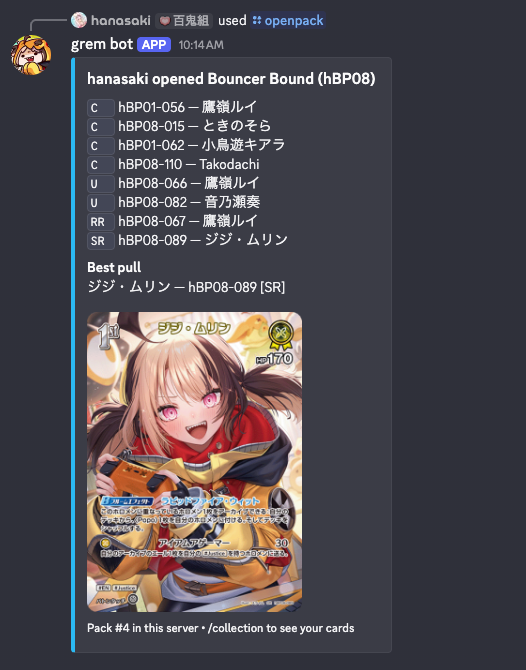
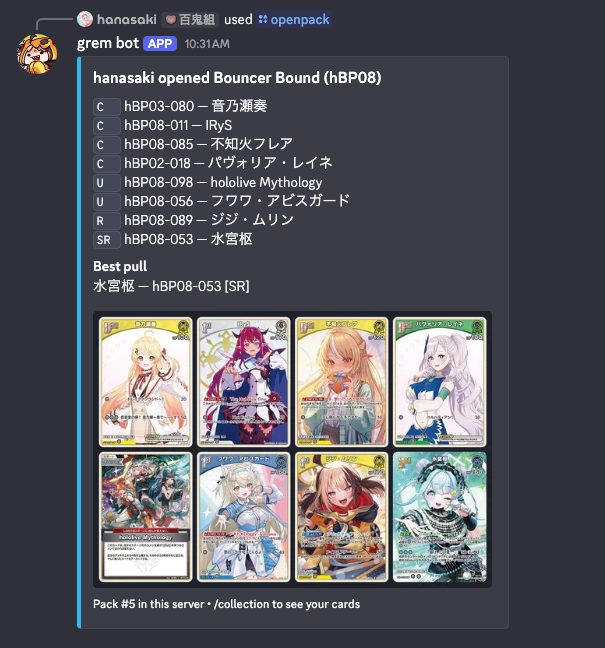
Add binders and leaderboards to the grembot page
Show the updated pack opening with artwork for every card, and drop the next-up line.

diff --git a/public/projects.js b/public/projects.js
@@ -99,11 +99,13 @@ function grembotScreenshots(files) {
     ['card-mention', 'mention a card in double brackets and grembot replies with it.', 'A Discord message asking about [[shiori ur]] and the Grembot reply showing the Shiori Novella UR card with prices.', 797, 878],
     ['daily-card', 'the card of the day, with the same details as any other lookup.', 'Grembot card of the day for 2026-10-22 showing Koseki Bijou with Japanese rules, artwork, and USD prices.', 737, 786],
     ['open-pack-query', 'start typing to pick any japanese booster or extra booster set.', 'Discord /openpack command with a list of booster sets from Blooming Radiance (hBP01) to Summer Hologram (hEB01).', 806, 513],
-    ['open-pack', 'every card in the pack, with the best pull shown up front.', 'Grembot pack opening for Bouncer Bound (hBP08) listing eight cards by rarity, with the Gigi Murin SR shown as the best pull.', 526, 670],
-    ['collection', 'packs opened, set completion, and the rarest cards pulled.', 'Grembot collection summary showing packs opened, cards pulled, set completion, and the rarest cards.', 534, 462]
+    ['open-pack', 'every card in the pack, with artwork for all eight and the best pull called out.', 'Grembot pack opening for Bouncer Bound (hBP08) listing eight cards by rarity with a grid of their artwork, and the Mizumiya Su SR shown as the best pull.', 605, 648],
+    ['collection', 'packs opened, set completion, and the rarest cards pulled.', 'Grembot collection summary showing packs opened, cards pulled, set completion, and the rarest cards.', 534, 462],
+    ['binder', 'flip through a set 20 cards at a time, with collected cards checked off.', 'Grembot binder for Bouncer Bound (hBP08) showing 16 of 182 cards collected, a checklist of cards, and page and filter buttons.', 573, 631],
+    ['leaderboard', 'see who leads the server.', 'Grembot leaderboard showing the most unique cards in the server, with hanasaki first at 40 unique cards.', 400, 162]
   ].filter(([file]) => files.includes(file)).forEach(([file, caption, alt, width, height]) => {
     const figure = document.createElement('figure');
-    figure.className = file === 'open-pack-query' ? 'grem-menu' : file.endsWith('query') ? 'grem-query' : 'grem-response';
+    figure.className = ['open-pack-query', 'open-pack', 'binder'].includes(file) ? 'grem-wide' : file.endsWith('query') ? 'grem-query' : 'grem-response';
     const link = document.createElement('a');
     link.href = `/assets/grembot/${file}.png`;
     link.target = '_blank';
@@ -132,8 +134,10 @@ function grembotDetails() {
     ['pull a random card', ['Use /randomcard to pull a random card, with optional rarity and color filters.', 'See the Japanese version when one exists, otherwise the English one, with the same artwork dropdown as /card.'], ['random-card-query']],
     ['look up cards mid-conversation', ['Write a card in double brackets, like [[ayame sec]], in any message and grembot replies with it.', 'Look up to three cards in a single message.'], ['card-mention']],
     ['card of the day', ['Use /dailycard to see the day’s card. Everyone gets the same card for a given UTC date.', 'Optionally post it automatically to a chosen channel at a set hour.', 'Before posting, grembot checks the channel’s recent messages, so a restart never posts the same day twice.'], ['daily-card']],
-    ['open booster packs', ['Use /openpack to open an 8-card booster pack and save the cards to your collection.', 'Pick a set by its English or Japanese name. Packs come from the Japanese catalogue, so every Japanese booster and extra booster is available, including sets not yet released in English.', 'Members with Manage Server can use /packcooldown to set how long people wait between packs. It is off by default.'], ['open-pack-query', 'open-pack']],
-    ['track your collection', ['Use /collection to see packs opened, unique cards, completion for each set, and the rarest cards pulled, for yourself or another member.'], ['collection']]
+    ['open booster packs', ['Use /openpack to open an 8-card booster pack, see artwork for every card pulled, and save them to your collection.', 'Pick a set by its English or Japanese name. Packs come from the Japanese catalogue, so every Japanese booster and extra booster is available, including sets not yet released in English.', 'Members with Manage Server can use /packcooldown to set how long people wait between packs. It is off by default.'], ['open-pack-query', 'open-pack']],
+    ['track your collection', ['Use /collection to see packs opened, unique cards, completion for each set, and the rarest cards pulled, for yourself or another member.'], ['collection']],
+    ['flip through a binder', ['Use /binder to page through every card in a set, 20 at a time, with collected cards and copy counts marked.', 'Switch pages and toggle between all, owned, and missing cards using buttons.', 'Leave out the set to open the one with the most cards collected, or choose another member to browse theirs.'], ['binder']],
+    ['server leaderboards', ['Use /leaderboard to rank the server by unique cards, packs opened, or UR, OUR, and SEC pulls.', 'See your own rank even when you are outside the top ten.'], ['leaderboard']]
   ];
   const sources = paragraph('The official Japanese catalogue is the preferred source for card details. The official English catalogue resolves English names, while the ');
   const apiLink = document.createElement('a');
@@ -146,8 +150,7 @@ function grembotDetails() {
     paragraph('As a gamer who spends plenty of time on Discord, I wanted a bot for my own servers that could help my friends and me find useful information without leaving the chat.'),
     subheading('card lookups, right in discord'),
     caseStudyFeatures(sections, grembotScreenshots),
-    sources,
-    paragraph('Next up: more server administration tools.')
+    sources
   ];
 }
 

diff --git a/public/styles.css b/public/styles.css
@@ -10,7 +10,7 @@ dialog[open]{animation:dialog-in .22s cubic-bezier(.22,.8,.28,1)}dialog[open]::b
 dialog h3{font-size:15px;font-weight:500;margin:28px 0 14px}
 
 .project-gallery{display:grid;grid-template-columns:repeat(2,minmax(0,1fr));gap:24px 18px;margin:28px 0}.project-gallery figure{margin:0;min-width:0}.project-gallery figure:first-child{grid-column:1/-1}.project-gallery a{display:block}.project-gallery img{display:block;width:100%;height:auto;max-height:none;border-radius:6px}.project-gallery figcaption{font-size:12px;line-height:1.6;color:var(--muted);margin-top:10px}@media(max-width:600px){.project-gallery{grid-template-columns:1fr}}
-dialog:has(.case-study-features){width:min(920px,calc(100% - 32px))}.case-study-features{list-style:none;padding:0;margin:0 0 30px}.case-study-feature{display:grid;grid-template-columns:34px minmax(0,1fr);column-gap:14px;padding:24px 0;border-top:1px solid var(--line)}.case-study-feature:last-child{border-bottom:1px solid var(--line)}.case-study-feature-number{grid-column:1;grid-row:1/3;font-size:10px;letter-spacing:1px;color:var(--muted);padding-top:4px}.case-study-feature h3{grid-column:2;margin:0;font-size:16px;font-weight:550;color:var(--ink)}.case-study-feature-copy,.case-study-points{grid-column:2;margin:7px 0 0}.case-study-points{padding-left:17px;color:var(--muted);font-size:14px;line-height:1.8}.case-study-points li+li{margin-top:7px}.case-study-feature>.project-gallery{grid-column:2}.holowish-gallery{grid-template-columns:repeat(auto-fit,minmax(120px,180px));gap:16px;margin:18px 0 2px}.holowish-gallery figure:first-child{grid-column:auto}.holowish-gallery img{width:100%;height:300px;max-height:none;object-fit:contain;margin:0 auto;background:#e8e8ee}.holowish-gallery figcaption{font-size:10px;letter-spacing:.3px;margin-top:7px}.grembot-gallery{grid-template-columns:minmax(0,1fr);margin:18px 0 2px}.grembot-gallery figure:first-child{grid-column:auto}.grembot-gallery .grem-response{width:min(100%,360px)}.grembot-gallery .grem-menu{width:min(100%,520px)}@media(max-width:600px){.case-study-feature{grid-template-columns:24px minmax(0,1fr);column-gap:10px;padding:20px 0}.case-study-feature>.project-gallery{grid-column:1/-1}.holowish-gallery{grid-template-columns:repeat(2,minmax(0,1fr));gap:18px 10px;margin-top:16px}.holowish-gallery img{height:240px}}
+dialog:has(.case-study-features){width:min(920px,calc(100% - 32px))}.case-study-features{list-style:none;padding:0;margin:0 0 30px}.case-study-feature{display:grid;grid-template-columns:34px minmax(0,1fr);column-gap:14px;padding:24px 0;border-top:1px solid var(--line)}.case-study-feature:last-child{border-bottom:1px solid var(--line)}.case-study-feature-number{grid-column:1;grid-row:1/3;font-size:10px;letter-spacing:1px;color:var(--muted);padding-top:4px}.case-study-feature h3{grid-column:2;margin:0;font-size:16px;font-weight:550;color:var(--ink)}.case-study-feature-copy,.case-study-points{grid-column:2;margin:7px 0 0}.case-study-points{padding-left:17px;color:var(--muted);font-size:14px;line-height:1.8}.case-study-points li+li{margin-top:7px}.case-study-feature>.project-gallery{grid-column:2}.holowish-gallery{grid-template-columns:repeat(auto-fit,minmax(120px,180px));gap:16px;margin:18px 0 2px}.holowish-gallery figure:first-child{grid-column:auto}.holowish-gallery img{width:100%;height:300px;max-height:none;object-fit:contain;margin:0 auto;background:#e8e8ee}.holowish-gallery figcaption{font-size:10px;letter-spacing:.3px;margin-top:7px}.grembot-gallery{grid-template-columns:minmax(0,1fr);margin:18px 0 2px}.grembot-gallery figure:first-child{grid-column:auto}.grembot-gallery .grem-response{width:min(100%,360px)}.grembot-gallery .grem-wide{width:min(100%,520px)}@media(max-width:600px){.case-study-feature{grid-template-columns:24px minmax(0,1fr);column-gap:10px;padding:20px 0}.case-study-feature>.project-gallery{grid-column:1/-1}.holowish-gallery{grid-template-columns:repeat(2,minmax(0,1fr));gap:18px 10px;margin-top:16px}.holowish-gallery img{height:240px}}
 
 .project-cover{display:block;width:100%;height:100%;object-fit:contain}
 .art-grem .project-cover{transition:transform .3s ease}
